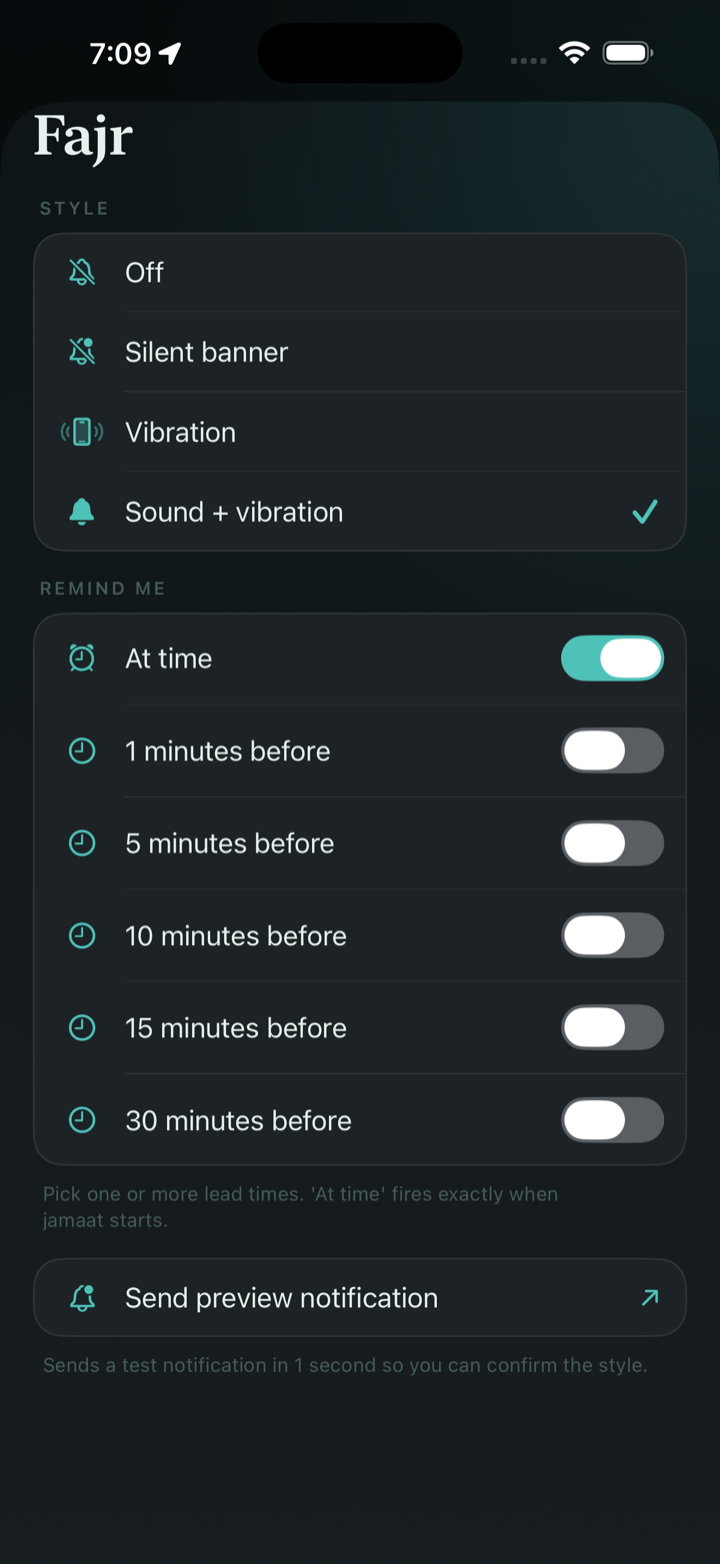
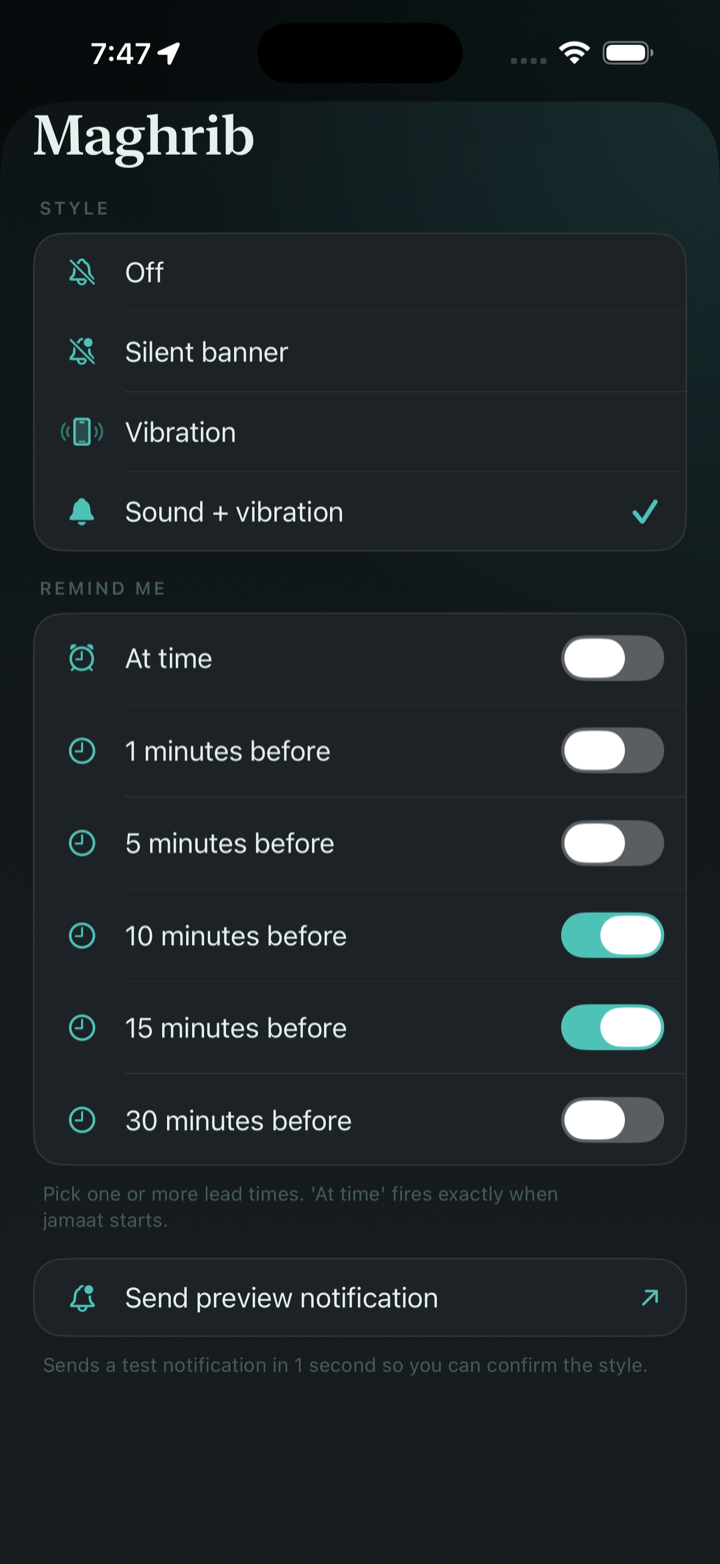
Reminders showcase: Maghrib example with 15 and 10 minute nudges
Fajr 'at time' wasn't a realistic story (you'd wake early to freshen up and
drive). Screenshot recaptured on Maghrib with the 15- and 10-minute reminders
switched on; bullet and alt text updated to match.

diff --git a/index.html b/index.html
@@ -120,11 +120,11 @@
         <ul>
           <li>Per prayer, pick a style: <strong>off, silent banner, vibration, or sound</strong></li>
           <li>Per prayer, pick the timing: <strong>at jama&rsquo;ah time, or 1, 5, 10, 15, 30 minutes before</strong>, and you can stack more than one</li>
-          <li>Wake up early for Fajr, slip out on time for Dhuhr at work, keep Isha silent</li>
+          <li>Wake up 20 minutes before Fajr to freshen up and drive, take <strong>15 and 10 minute nudges for Maghrib</strong>, keep Isha silent</li>
           <li><strong>Send a preview</strong> to test the style before you rely on it</li>
         </ul>
       </div>
-      <div class="shot"><div class="phone"><img src="assets/notif-detail.png" alt="Fajr notification settings showing style options and multiple minutes-before reminder toggles" loading="lazy"></div></div>
+      <div class="shot"><div class="phone"><img src="assets/notif-detail.png" alt="Maghrib notification settings with sound style selected and 10 and 15 minutes-before reminders switched on" loading="lazy"></div></div>
     </div>
   </div>
 </section>